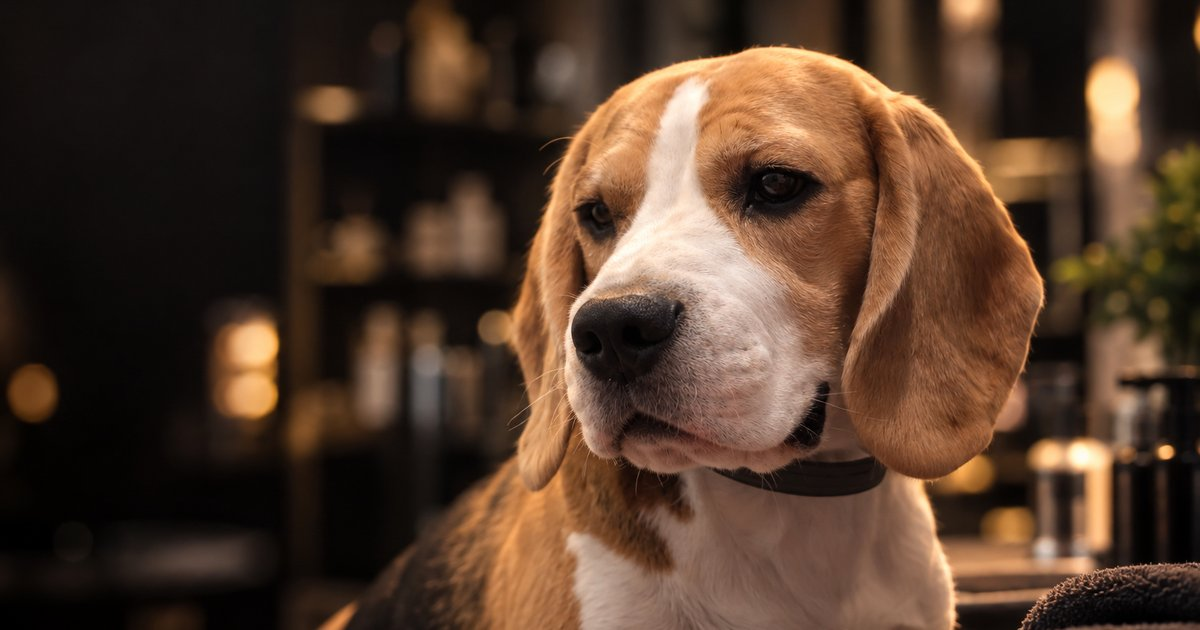
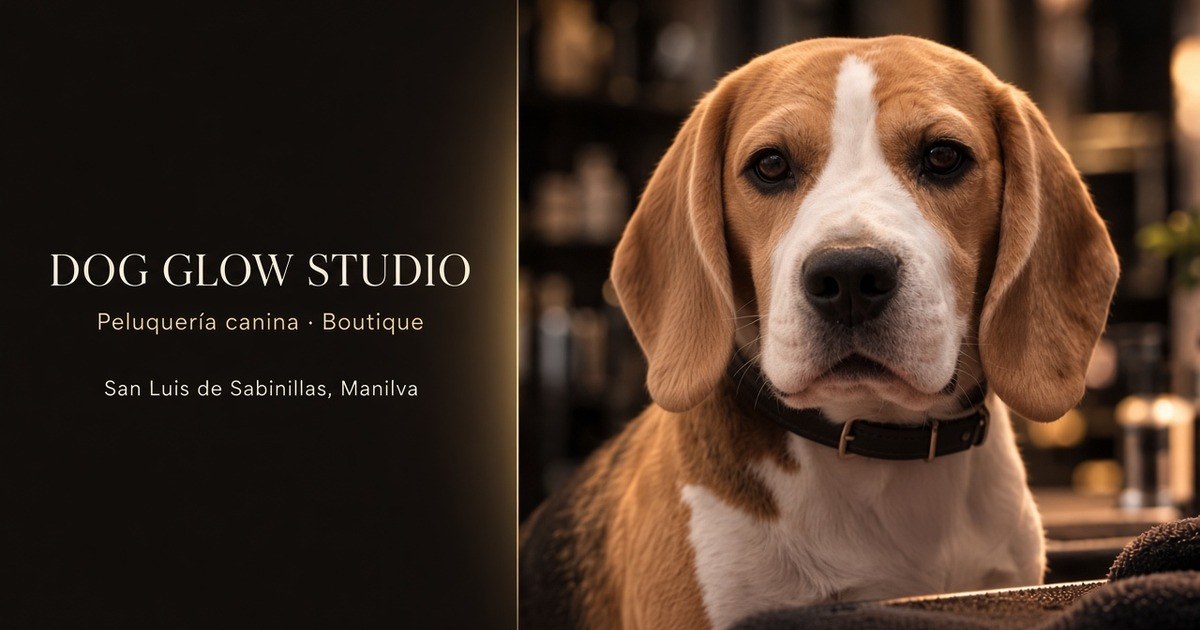
og image

diff --git a/src/index.html b/src/index.html
@@ -19,15 +19,17 @@
 <meta property="og:description" content="Peluquería canina y boutique en San Luis de Sabinillas, Manilva. Spa, aromaterapia, ozonoterapia y tratamientos especializados.">
 <meta property="og:url" content="https://www.dogglowstudio.com/">
 <meta property="og:image" content="https://www.dogglowstudio.com/assets/img/og-dog-glow-studio.jpg">
+<meta property="og:image:secure_url" content="https://www.dogglowstudio.com/assets/img/og-dog-glow-studio.jpg">
+<meta property="og:image:type" content="image/jpeg">
 <meta property="og:image:width" content="1200">
 <meta property="og:image:height" content="630">
-<meta property="og:image:alt" content="Dog Glow Studio — peluquería canina en San Luis de Sabinillas, Manilva">
+<meta property="og:image:alt" content="Dog Glow Studio — peluquería canina y boutique en San Luis de Sabinillas, Manilva">
 
 <meta name="twitter:card" content="summary_large_image">
 <meta name="twitter:title" content="Peluquería Canina en Manilva y Sabinillas | Dog Glow Studio">
 <meta name="twitter:description" content="Peluquería canina y boutique en Manilva. Spa, aromaterapia, ozonoterapia y tratamientos para Pomeranias y caniches.">
 <meta name="twitter:image" content="https://www.dogglowstudio.com/assets/img/og-dog-glow-studio.jpg">
-<meta name="twitter:image:alt" content="Dog Glow Studio — peluquería canina en San Luis de Sabinillas, Manilva">
+<meta name="twitter:image:alt" content="Dog Glow Studio — peluquería canina y boutique en San Luis de Sabinillas, Manilva">
 
 <link rel="icon" type="image/svg+xml" href="assets/img/logo.svg">
 <link rel="apple-touch-icon" href="assets/img/logo.svg">
